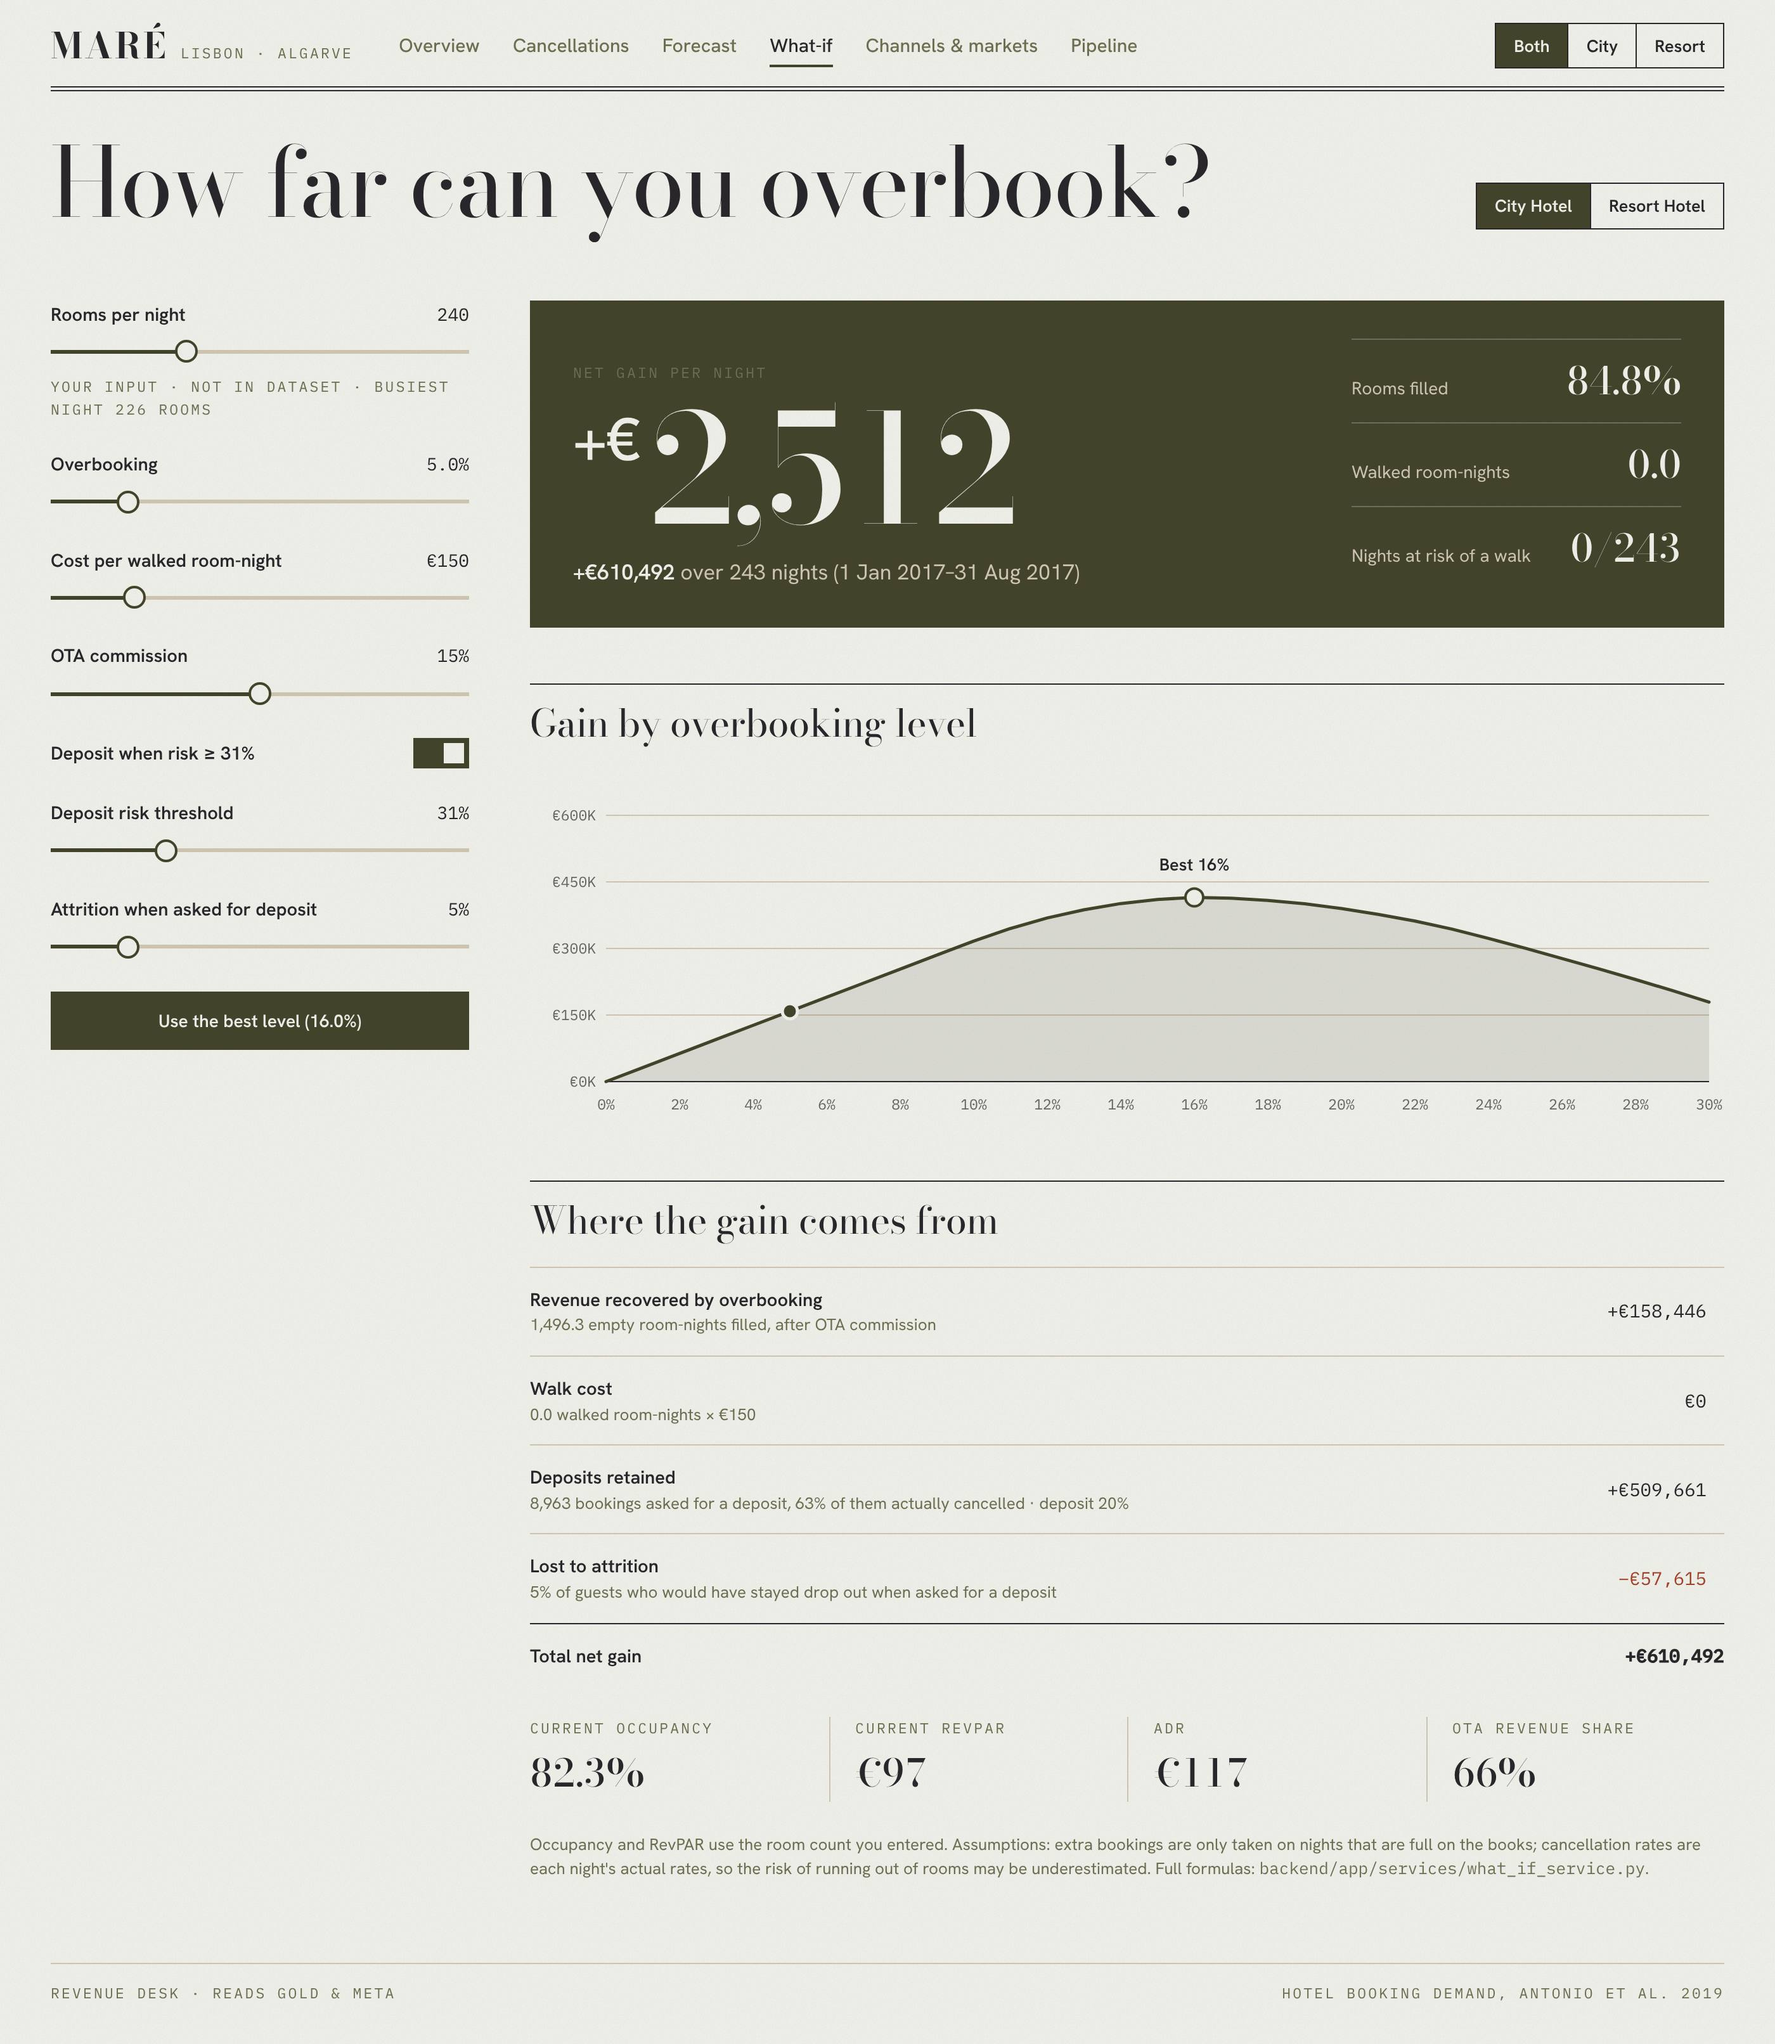
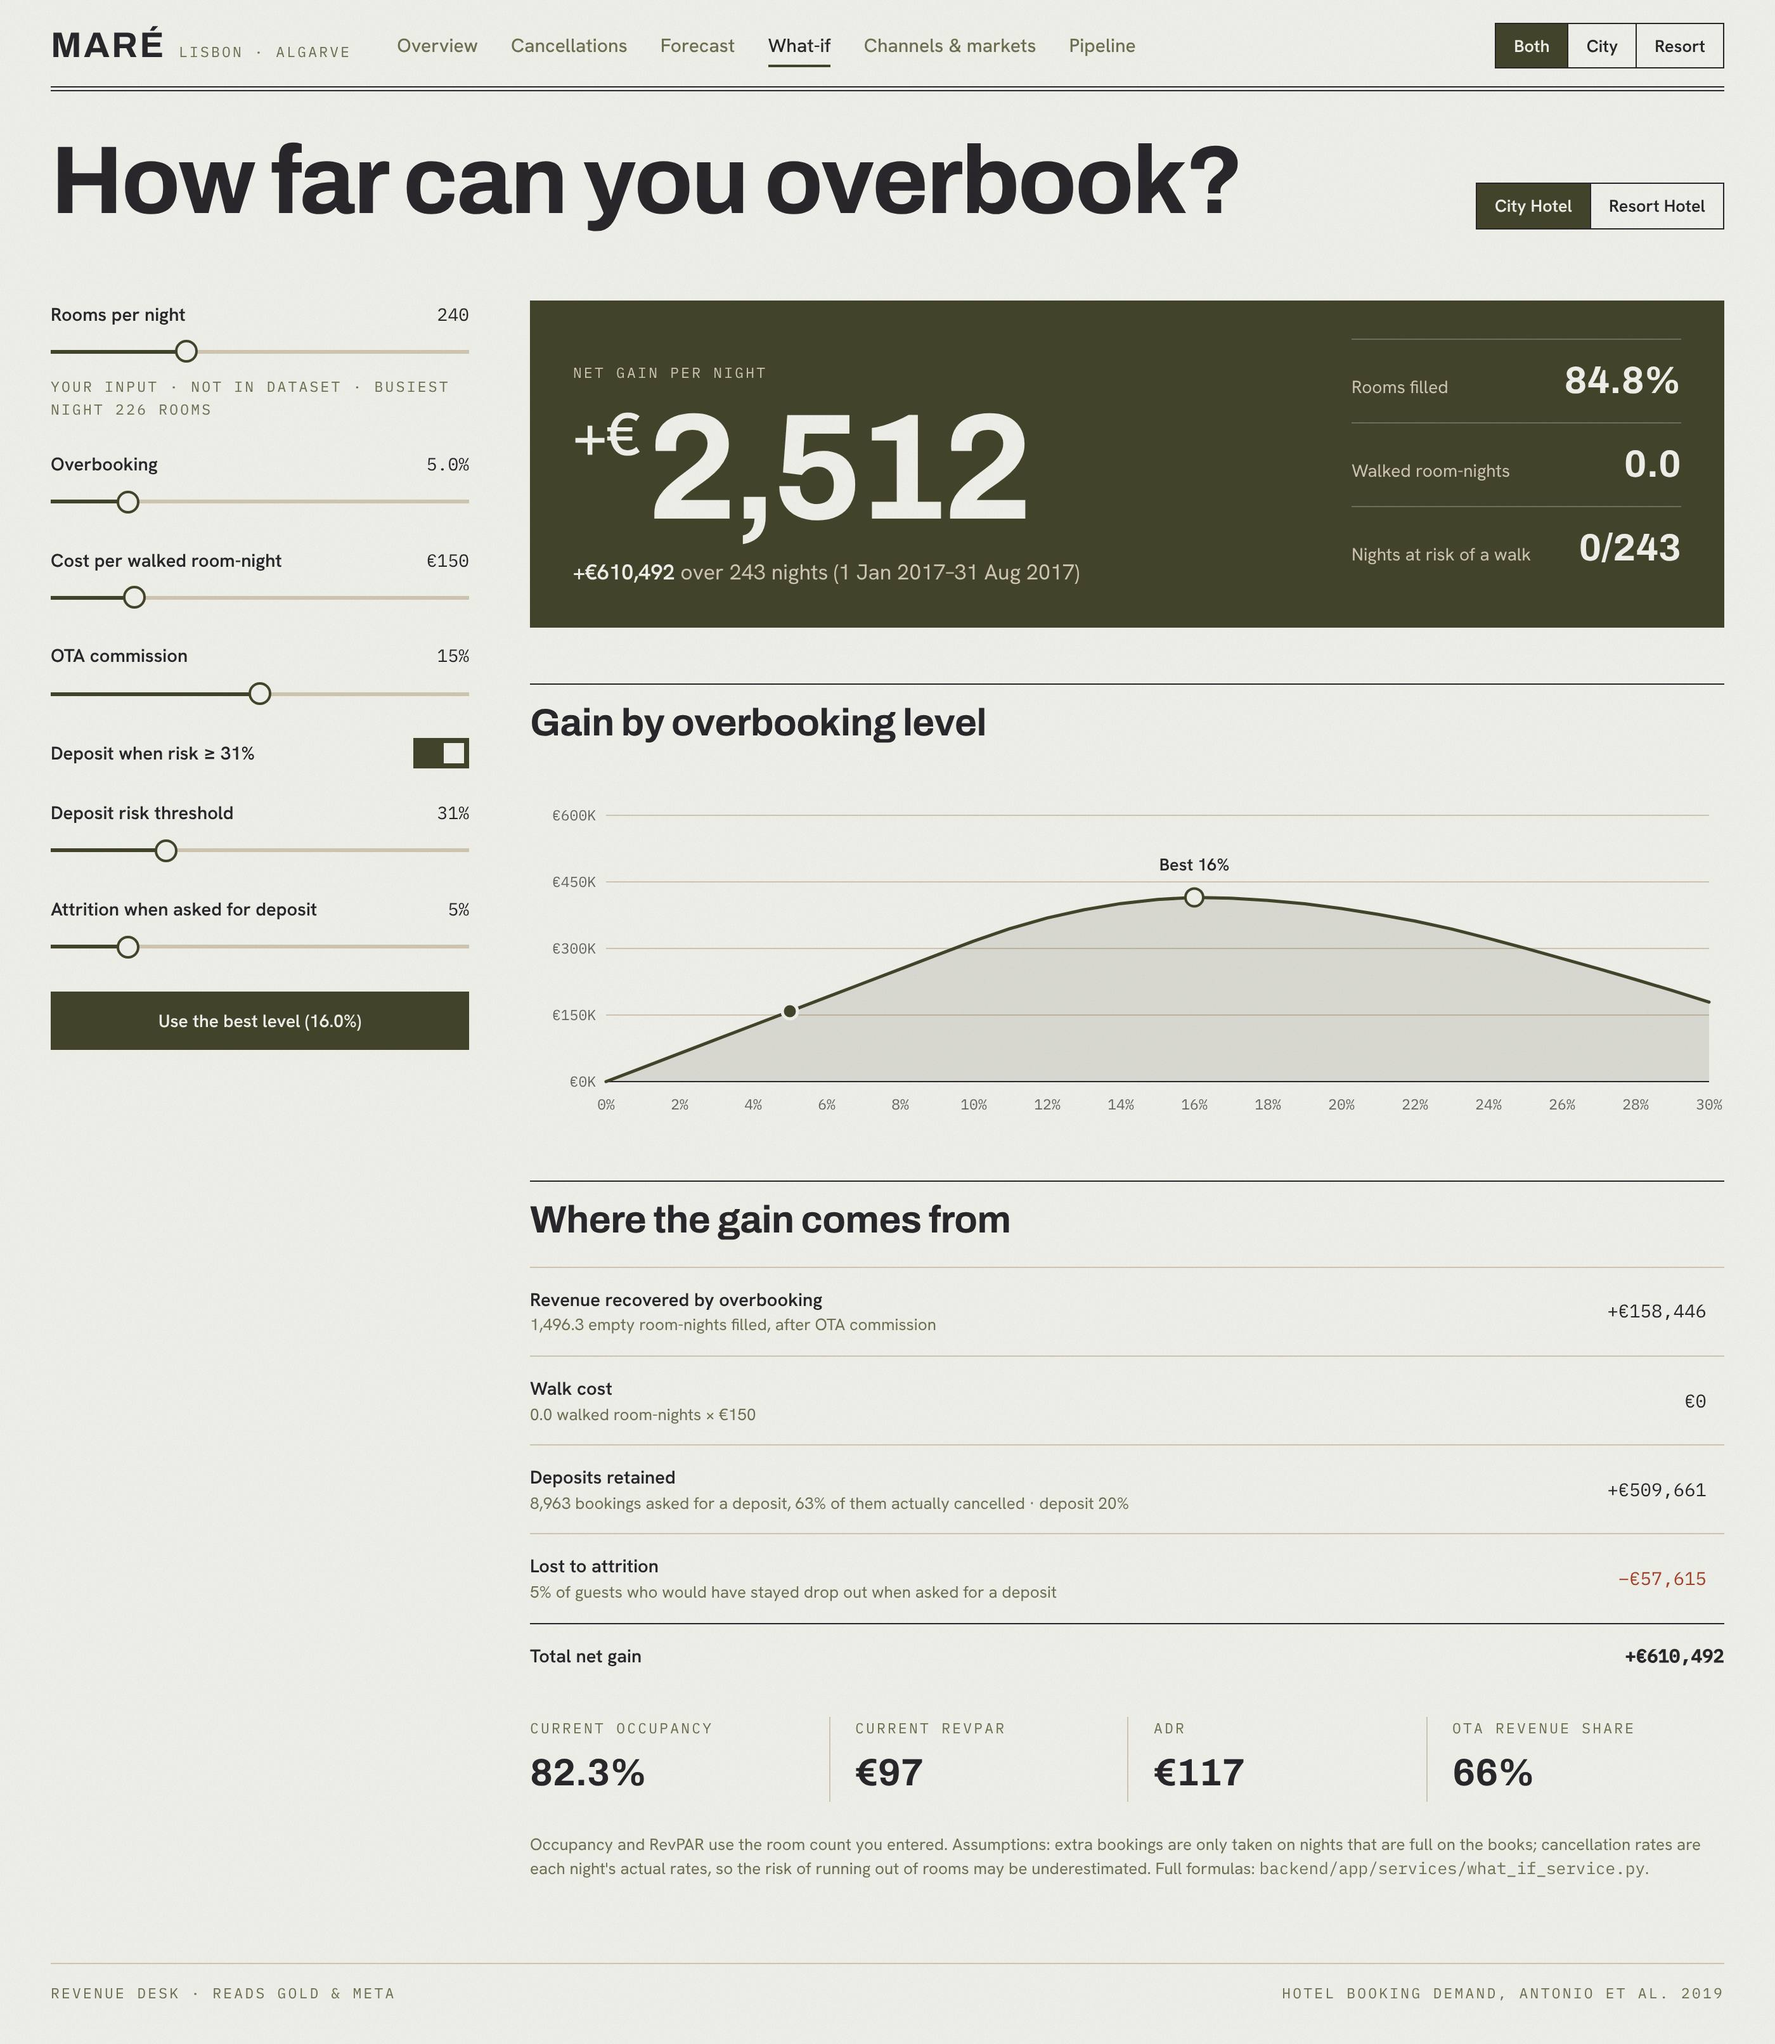
fix(frontend): use a heavier display font for legible numbers and titles
Replace Bodoni Moda (hairline strokes) with Archivo at weight 700 for page titles and large
numbers, and fix captions on the dark focal blocks that lost their light colour.

Closes #60

Claude-Session: https://claude.ai/code/session_01HSHYohaMQgLq8zk6srS4UL

diff --git a/frontend/src/pages/CancellationPage.tsx b/frontend/src/pages/CancellationPage.tsx
@@ -143,7 +143,7 @@ export default function CancellationPage() {
         </div>
         <div className="flex flex-col gap-1.5 pb-2">
           <Cap className="text-kangaroo">Room revenue at risk</Cap>
-          <b className="font-display text-[40px] leading-none font-medium tabular-nums">
+          <b className="font-display text-[40px] leading-none font-bold tabular-nums">
             {list.data ? <Money value={list.data.expected_loss_total} /> : '—'}
           </b>
           <span className="text-sm text-kangaroo">
@@ -166,7 +166,7 @@ export default function CancellationPage() {
               className="range-ledger range-on-focal"
               style={{ '--p': `${((thr * 100 - 5) / 90) * 100}%` } as CSSProperties}
             />
-            <output htmlFor="thr" className="min-w-[74px] text-right font-display text-[34px] leading-none">
+            <output htmlFor="thr" className="min-w-[74px] text-right font-display text-[34px] leading-none font-bold">
               {pct(thr, 0)}
             </output>
           </div>
@@ -334,7 +334,7 @@ function BookingDetail({
       className="mt-8 flex flex-col gap-6 border-t border-cedar pt-6 xl:sticky xl:top-28 xl:mt-0 xl:border-t-0 xl:border-l xl:pt-0 xl:pl-10"
     >
       <div className="flex items-end justify-between gap-4">
-        <div className="font-display text-[84px] leading-[0.82] font-medium tracking-[-0.03em] text-rust tabular-nums sm:text-[104px]">
+        <div className="font-display text-[84px] leading-[0.82] font-bold tracking-[-0.03em] text-rust tabular-nums sm:text-[104px]">
           {pct(b.cancel_probability, 0)}
         </div>
         <div className="text-right">
@@ -461,7 +461,7 @@ function BreakdownSection({
             <>
               <div className="flex flex-col gap-1.5">
                 <Cap>Model AUC, 2017 test</Cap>
-                <b className="font-display text-[64px] leading-[0.9] font-medium">
+                <b className="font-display text-[64px] leading-[0.9] font-bold">
                   {test?.auc != null ? test.auc.toFixed(3) : '—'}
                 </b>
               </div>
@@ -477,7 +477,7 @@ function BreakdownSection({
                     <dt>
                       <Cap>{k}</Cap>
                     </dt>
-                    <dd className="mt-0.5 font-display text-[26px] font-medium tabular-nums">{pct(v ?? null, 0)}</dd>
+                    <dd className="mt-0.5 font-display text-[26px] font-bold tabular-nums">{pct(v ?? null, 0)}</dd>
                   </div>
                 ))}
               </dl>

diff --git a/frontend/src/components/common/ledger.tsx b/frontend/src/components/common/ledger.tsx
@@ -5,14 +5,19 @@ import { compact, eur, eurCompact, pct } from '../../lib/format'
 
 /** Uppercase, letter-spaced mono caption (".cap" in the prototype). */
 export function Cap({ children, className = '' }: { children: ReactNode; className?: string }) {
+  // Default colour only when the caller sets none: two text-* colour classes would conflict
+  // (e.g. text-kangaroo on the dark focal block lost to text-oyster-ink and became unreadable).
+  const hasColour = /(^|\s)text-(merino|kangaroo|oyster|oyster-ink|rifle|cedar|rust|brass)(\s|$)/.test(className)
   return (
-    <span className={`font-mono text-[11.5px] tracking-[0.14em] uppercase text-oyster-ink ${className}`}>
+    <span
+      className={`font-mono text-[11.5px] tracking-[0.14em] uppercase ${hasColour ? '' : 'text-oyster-ink'} ${className}`}
+    >
       {children}
     </span>
   )
 }
 
-/** Large page title (Bodoni). */
+/** Large page title (Archivo). */
 export function PageHead({ title, aside }: { title: ReactNode; aside?: ReactNode }) {
   return (
     <div className="flex flex-wrap items-end justify-between gap-x-8 gap-y-4 animate-rise">
@@ -24,7 +29,7 @@ export function PageHead({ title, aside }: { title: ReactNode; aside?: ReactNode
   )
 }
 
-/** A content section: top rule, Bodoni title, right-hand aside (legend/tabs). */
+/** A content section: top rule, Archivo title, right-hand aside (legend/tabs). */
 export function Section({
   title,
   aside,
@@ -68,7 +73,7 @@ export function Focal({
 export function BigNumber({ children, className = '' }: { children: ReactNode; className?: string }) {
   return (
     <div
-      className={`font-display font-medium leading-[0.86] tracking-[-0.035em] whitespace-nowrap tabular-nums ${className}`}
+      className={`font-display font-bold leading-[0.86] tracking-[-0.035em] whitespace-nowrap tabular-nums ${className}`}
     >
       {children}
     </div>
@@ -235,7 +240,7 @@ export function KpiStrip({ items }: { items: KpiItem[] }) {
         >
           <Cap>{k.label}</Cap>
           <span
-            className={`font-display font-medium text-[clamp(34px,4.4vw,62px)] leading-[0.95] tracking-[-0.02em] whitespace-nowrap tabular-nums ${
+            className={`font-display font-bold text-[clamp(34px,4.4vw,62px)] leading-[0.95] tracking-[-0.02em] whitespace-nowrap tabular-nums ${
               k.alert ? 'text-rust' : ''
             }`}
           >

diff --git a/frontend/src/pages/WhatIfPage.tsx b/frontend/src/pages/WhatIfPage.tsx
@@ -273,7 +273,7 @@ export default function WhatIfPage() {
               ).map(([k, v]) => (
                 <div key={k} className="flex items-baseline justify-between gap-3 border-t border-merino/25 py-2.5">
                   <span className="text-sm text-kangaroo">{k}</span>
-                  <b className="font-display text-[30px] font-medium tabular-nums">{v}</b>
+                  <b className="font-display text-[30px] font-bold tabular-nums">{v}</b>
                 </div>
               ))}
             </div>
@@ -420,7 +420,7 @@ function Breakdown({ data, depositOn, total }: { data: WhatIfResponse; depositOn
         ).map(([k, v], i) => (
           <div key={k} className={`flex flex-col gap-1 ${i % 2 ? 'border-l border-kangaroo pl-5' : ''} ${i === 2 ? 'sm:border-l sm:border-kangaroo sm:pl-5' : ''}`}>
             <Cap>{k}</Cap>
-            <b className="font-display text-[30px] font-medium tabular-nums">{v}</b>
+            <b className="font-display text-[30px] font-bold tabular-nums">{v}</b>
           </div>
         ))}
       </div>

diff --git a/frontend/src/components/charts/ColumnBars.tsx b/frontend/src/components/charts/ColumnBars.tsx
@@ -1,5 +1,5 @@
 // Simple vertical columns like the prototype's "Cancellation by lead time": big number on top, mono label underneath.
-// Built with divs instead of Recharts because there are ≤ 10 columns and the tops need Bodoni text.
+// Built with divs instead of Recharts because there are ≤ 10 columns and the tops need large display text.
 import { pct } from '../../lib/format'
 
 export interface Column {
@@ -33,7 +33,7 @@ export default function ColumnBars({
           title={c.title}
           aria-label={`${c.label}: ${pct(c.value)}`}
         >
-          <b className="font-display text-lg font-medium sm:text-[22px]">{pct(c.value, 0)}</b>
+          <b className="font-display text-lg font-bold sm:text-[22px]">{pct(c.value, 0)}</b>
           <i
             className={`block w-full max-w-16 origin-bottom transition-[height] duration-700 ease-ledger ${
               tone === 'rust' ? 'bg-rust' : 'bg-rifle'

diff --git a/frontend/src/styles/global.css b/frontend/src/styles/global.css
@@ -15,7 +15,7 @@
   --color-rust: #a3442a; /* ONLY for cancellations / negative values */
   --color-brass: #9c7a3c; /* Resort Hotel, warnings */
 
-  --font-display: 'Bodoni Moda', 'Didot', 'Bodoni 72', Georgia, serif;
+  --font-display: 'Archivo', 'Hanken Grotesk', ui-sans-serif, system-ui, sans-serif; /* thick, low-contrast strokes for legible numbers */
   --font-sans: 'Hanken Grotesk', ui-sans-serif, system-ui, -apple-system, 'Segoe UI', sans-serif;
   --font-mono: 'IBM Plex Mono', ui-monospace, Menlo, Consolas, monospace;
 
@@ -61,7 +61,7 @@
   h1,
   h2,
   h3 {
-    font-weight: 400;
+    font-weight: 700;
     text-wrap: balance;
   }
   :focus-visible {

diff --git a/frontend/src/pages/ForecastPage.tsx b/frontend/src/pages/ForecastPage.tsx
@@ -149,7 +149,7 @@ export default function ForecastPage() {
                 <small className="font-mono text-[11.5px] text-oyster-ink">
                   W{isoWeek(w.week)} · {dayMonth(w.week)}
                 </small>
-                <b className="font-display text-[30px] leading-[1.05] font-medium tabular-nums">{num(w.total)}</b>
+                <b className="font-display text-[30px] leading-[1.05] font-bold tabular-nums">{num(w.total)}</b>
                 {w.perHotel.length === 1 ? (
                   <small className="font-mono text-[11.5px] text-oyster-ink">
                     {num(w.perHotel[0].lo)}–{num(w.perHotel[0].hi)}

diff --git a/frontend/src/pages/SystemStatusPage.tsx b/frontend/src/pages/SystemStatusPage.tsx
@@ -167,7 +167,7 @@ export default function SystemStatusPage() {
                   i % 2 === 1 ? 'max-md:border-l max-md:border-kangaroo max-md:pl-6' : ''
                 }`}
               >
-                <b className="font-display text-[48px] leading-none font-medium tabular-nums">{num(c.rows_affected ?? 0)}</b>
+                <b className="font-display text-[48px] leading-none font-bold tabular-nums">{num(c.rows_affected ?? 0)}</b>
                 <span className="font-semibold [overflow-wrap:anywhere]">{fileName(c.step).replace(/_/g, ' ')}</span>
                 <StatusBadge
                   value={c.status}

diff --git a/frontend/index.html b/frontend/index.html
@@ -8,7 +8,7 @@
     <link rel="preconnect" href="https://fonts.gstatic.com" crossorigin />
     <link
       rel="stylesheet"
-      href="https://fonts.googleapis.com/css2?family=Bodoni+Moda:opsz,wght@6..96,400..800&family=Hanken+Grotesk:wght@400;500;600;700&family=IBM+Plex+Mono:wght@400;500&display=swap"
+      href="https://fonts.googleapis.com/css2?family=Archivo:wght@400..900&family=Hanken+Grotesk:wght@400;500;600;700&family=IBM+Plex+Mono:wght@400;500&display=swap"
     />
   </head>
   <body>

diff --git a/docs/ARCHITECTURE.md b/docs/ARCHITECTURE.md
@@ -143,7 +143,7 @@ pages/*.tsx ──use──▶ hooks/useApi.ts ──call──▶ api/endpoints
   `components/filters/FilterBar.tsx`. Values persist across pages and are sent to the backend as query params.
 - The frontend **does not compute KPIs**: rates, ADR and what-if all come from the backend; the FE only formats them (`lib/format.ts`, en-GB style).
 - The UI follows the prototype in `docs/design/prototype/` (a "ledger" style: paper background, rules instead of cards, one
-  Rifle green block per page as the accent, large numbers in Bodoni Moda). Color/font tokens are declared in one place in
+  Rifle green block per page as the accent, large numbers and titles in Archivo, a heavy low-contrast sans chosen over the prototype's Bodoni Moda for legibility). Color/font tokens are declared in one place in
   `styles/global.css` (Tailwind's `@theme`) and `lib/theme.ts` (hex values for SVG).
 
 | Page | Users | Main endpoints |
